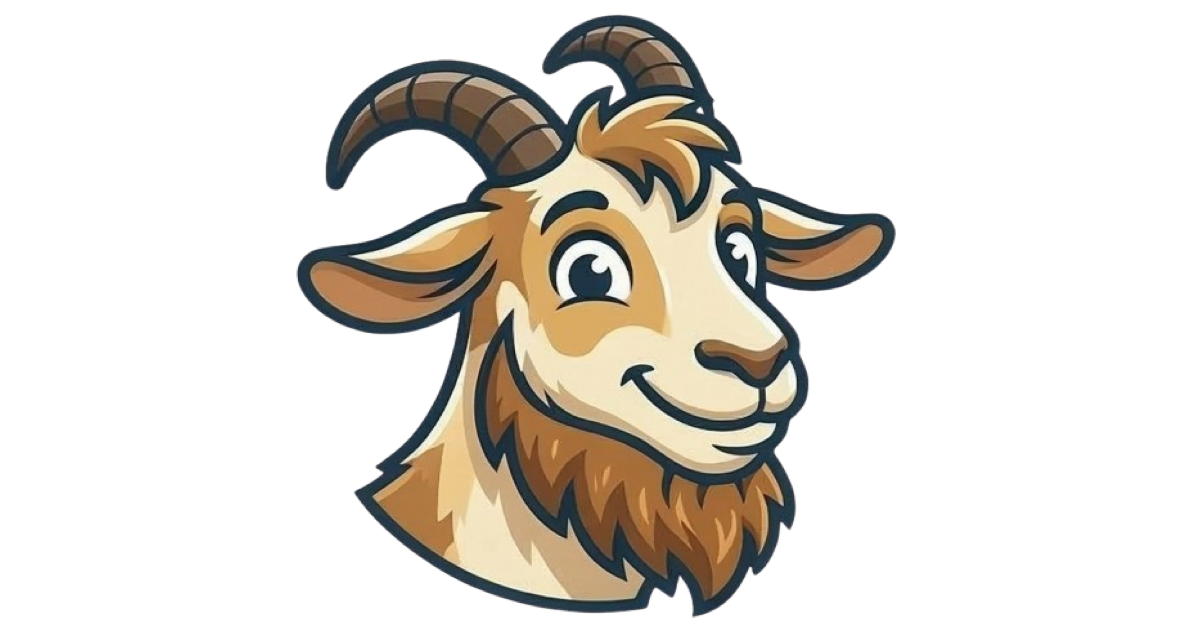
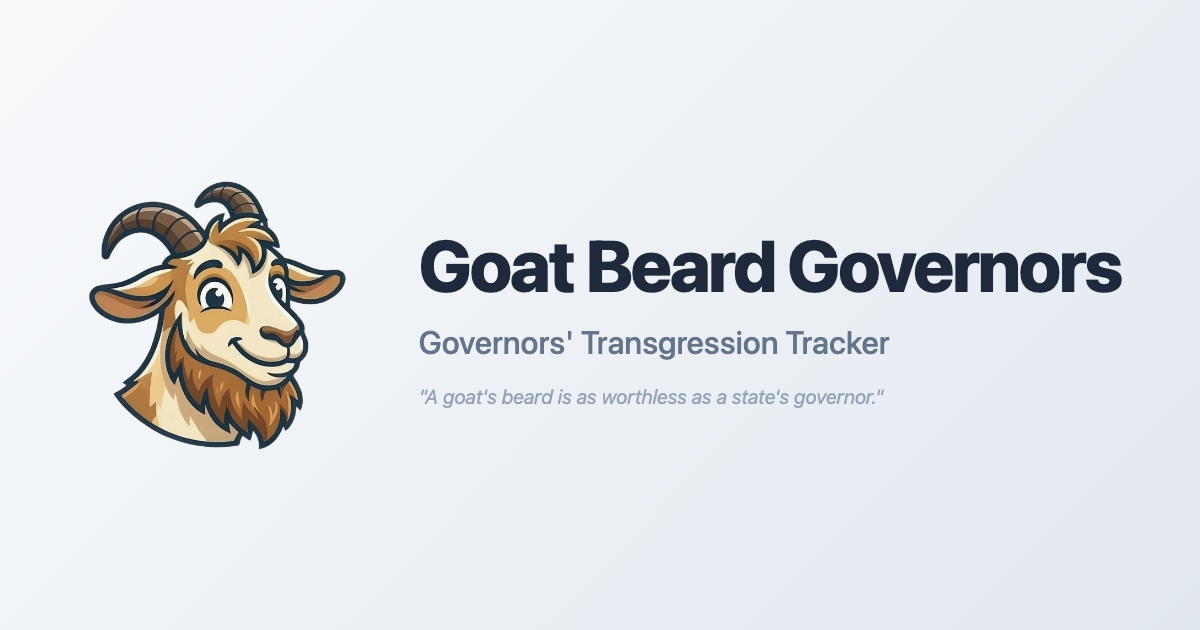
feat(goat-beard): update OG image with title and subtitle
- "Goat Beard Governors" title
- "Governors' Transgression Tracker" subtitle
- Quote tagline
- Logo on left, text on right
- Added generation scripts for future updates

diff --git a/scripts/generate-og-image.html b/scripts/generate-og-image.html
@@ -1,0 +1,64 @@
+<!DOCTYPE html>
+<html>
+<head>
+  <meta charset="UTF-8">
+  <style>
+    * {
+      margin: 0;
+      padding: 0;
+      box-sizing: border-box;
+    }
+    body {
+      width: 1200px;
+      height: 630px;
+      display: flex;
+      align-items: center;
+      justify-content: center;
+      background: linear-gradient(135deg, #f8fafc 0%, #e2e8f0 100%);
+      font-family: -apple-system, BlinkMacSystemFont, 'Segoe UI', Roboto, sans-serif;
+    }
+    .container {
+      display: flex;
+      align-items: center;
+      gap: 60px;
+    }
+    .logo {
+      width: 280px;
+      height: 280px;
+      object-fit: contain;
+    }
+    .text {
+      display: flex;
+      flex-direction: column;
+      gap: 16px;
+    }
+    .title {
+      font-size: 72px;
+      font-weight: 800;
+      color: #1e293b;
+      letter-spacing: -2px;
+    }
+    .subtitle {
+      font-size: 32px;
+      font-weight: 500;
+      color: #64748b;
+    }
+    .tagline {
+      font-size: 20px;
+      font-style: italic;
+      color: #94a3b8;
+      margin-top: 8px;
+    }
+  </style>
+</head>
+<body>
+  <div class="container">
+    <img src="logo.png" alt="Logo" class="logo">
+    <div class="text">
+      <div class="title">Goat Beard Governors</div>
+      <div class="subtitle">Governors' Transgression Tracker</div>
+      <div class="tagline">"A goat's beard is as worthless as a state's governor."</div>
+    </div>
+  </div>
+</body>
+</html>

diff --git a/scripts/generate-og.js b/scripts/generate-og.js
@@ -1,0 +1,22 @@
+const { chromium } = require('playwright');
+const path = require('path');
+
+async function generateOGImage() {
+  const browser = await chromium.launch();
+  const page = await browser.newPage();
+
+  await page.setViewportSize({ width: 1200, height: 630 });
+
+  const htmlPath = path.join(__dirname, 'generate-og-image.html');
+  await page.goto(`file://${htmlPath}`);
+
+  await page.screenshot({
+    path: path.join(__dirname, '../public/og-image.png'),
+    type: 'png'
+  });
+
+  await browser.close();
+  console.log('OG image generated successfully!');
+}
+
+generateOGImage().catch(console.error);
